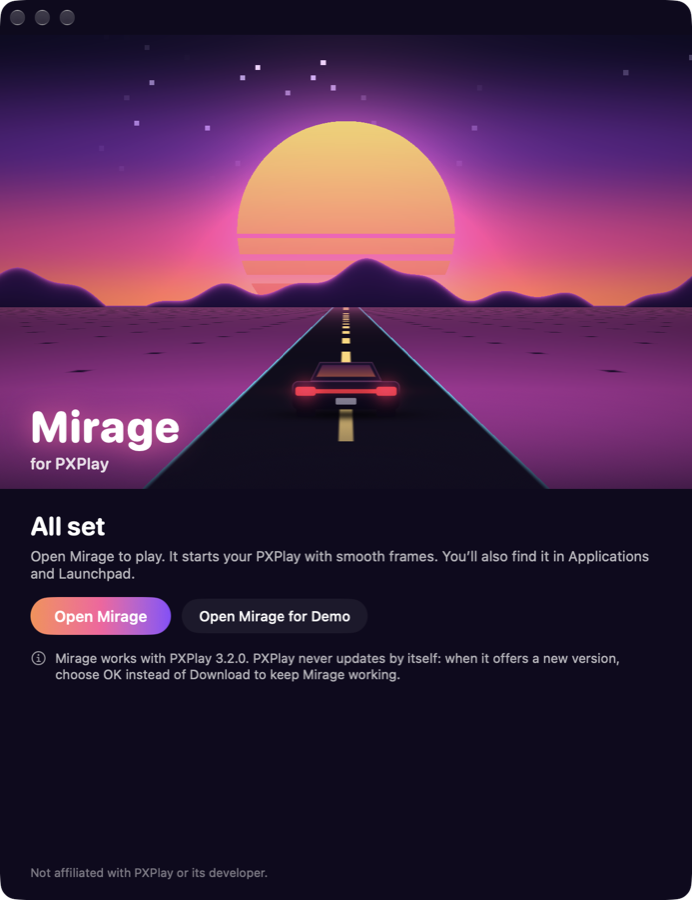
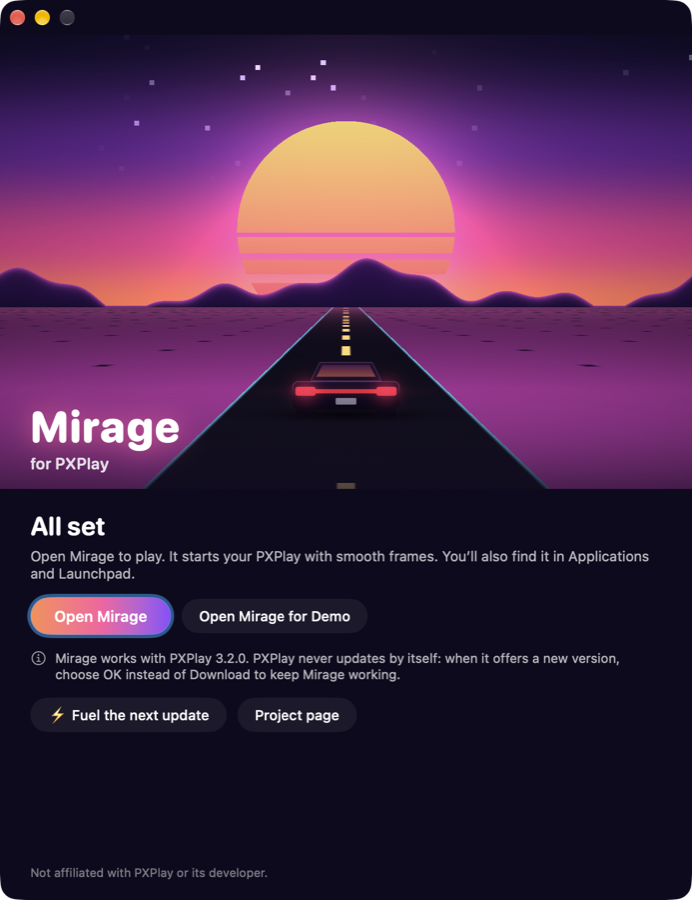
Patreon support link: installer button, README section and badge
The installer's last screen gets a "Fuel the next update" button in all twelve
languages; README and README.ru.md get a Support section.

diff --git a/Sources/Installer/Views.swift b/Sources/Installer/Views.swift
@@ -335,7 +335,7 @@ private struct DoneScreen: View {
             note(L("app.update.note"), icon: "info.circle")
             HStack(spacing: 10) {
                 if let donate = InstallerModel.donateURL {
-                    QuietButton(title: "☕ " + L("app.done.coffee")) { NSWorkspace.shared.open(donate) }
+                    QuietButton(title: "⚡ " + L("app.done.coffee")) { NSWorkspace.shared.open(donate) }
                 }
                 if let project = InstallerModel.projectURL {
                     QuietButton(title: L("app.done.project")) { NSWorkspace.shared.open(project) }

diff --git a/README.ru.md b/README.ru.md
@@ -15,6 +15,7 @@
   <a href="#no-input-lag">Почему нет инпут‑лага</a> ·
   <a href="#install">Установка</a> ·
   <a href="#steady-wifi">Про стабильный Wi‑Fi</a> ·
+  <a href="#support">⚡ Поддержать</a> ·
   <a href="README.md">English</a>
 </p>
 
@@ -182,6 +183,18 @@ PXPlay сам не обновляется. Когда выходит новая 
 **В игре что‑то выглядит странно.**
 Переключись на «Максимальная картинка» или «Штатный PXPlay» в PXPlay → Настройки → Видео. Если пишешь в Issues,
 приложи `~/Library/Logs/Mirage for PXPlay/PXPlay.log`.
+
+<a id="support"></a>
+
+## ⚡ Поддержать
+
+Mirage бесплатный и с открытым кодом, и таким останется. Никаких функций за пейволлом.
+
+Но работает он на Monster Ultra White. Если Mirage избавил твои пальцы от инпут‑лага, можно
+**[подкинуть мне банку на Patreon](https://www.patreon.com/17168801/join)**. У меня есть список идей, как сделать его ещё плавнее, чётче и с меньшей
+задержкой, и каждая банка приближает их к твоему экрану. ⚡
+
+Звёздочка репозиторию и рассказ другу с Mac и PS5 помогают не меньше. ⭐
 
 ## 🙏 Спасибо
 

diff --git a/README.md b/README.md
@@ -15,6 +15,7 @@
   <img alt="macOS 26+" src="https://img.shields.io/badge/macOS-26%2B-blue">
   <img alt="PXPlay 3.2.0" src="https://img.shields.io/badge/PXPlay-3.2.0%20%2B%20Demo-ff4f9a">
   <img alt="License MIT" src="https://img.shields.io/badge/license-MIT-green">
+  <a href="https://www.patreon.com/17168801/join"><img alt="Fuel the next update on Patreon" src="https://img.shields.io/badge/Patreon-fuel%20the%20next%20update-ff424d?logo=patreon&logoColor=white"></a>
 </p>
 
 <p align="center">
@@ -23,6 +24,7 @@
   <a href="#install">Install</a> ·
   <a href="#steady-wifi">Steady Wi‑Fi warning</a> ·
   <a href="#under-the-hood">Under the hood</a> ·
+  <a href="#support">⚡ Support</a> ·
   <a href="README.ru.md">По‑русски</a>
 </p>
 
@@ -261,6 +263,18 @@ Tests/smoke-test.sh --live # also starts the real PXPlay once and checks the age
 ```
 
 The project and donation links shown in the installer are set in `release.config`.
+
+<a id="support"></a>
+
+## ⚡ Support
+
+Mirage is free and open source, and it's staying that way. No features behind a paywall, ever.
+
+That said, it does run on Monster Ultra White. If Mirage saved your thumbs some input lag, you can
+**[buy me a can on Patreon](https://www.patreon.com/17168801/join)**. I've got a list of ideas to make it even smoother, sharper and
+lower‑latency, and every can gets them a little closer to your screen. ⚡
+
+Starring the repo and telling a friend with a Mac and a PS5 helps just as much. ⭐
 
 ## 🙏 Credits
 
